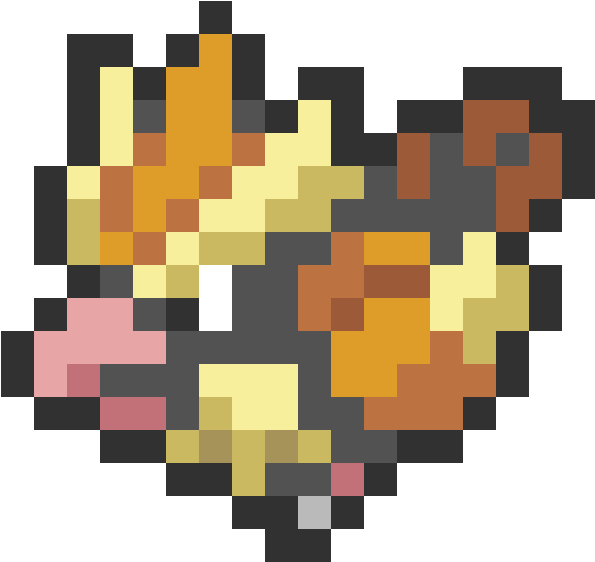
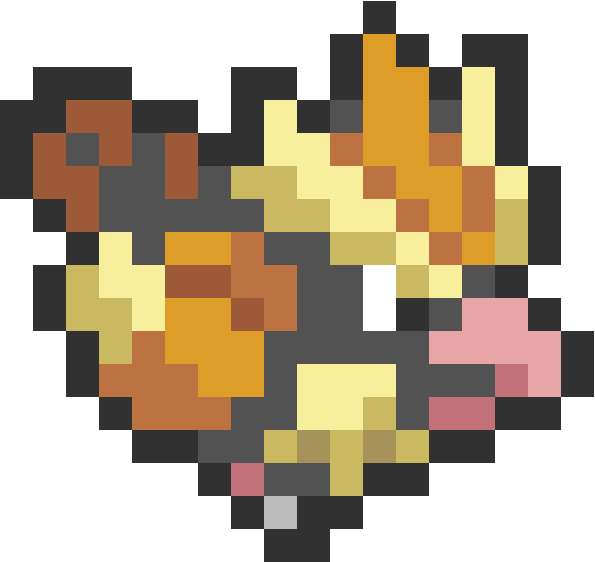
Ho implementato una funzione compute_angle che permette di calcolare l'angolo di rotazione dei pidgey, note le componenti cartesiane della velocità

diff --git a/chess_source/boids.hpp b/chess_source/boids.hpp
@@ -2,11 +2,11 @@
 #define BOIDS_HPP
 
 #include <SFML/Graphics.hpp>
+#include <cmath>
 #include <cstdlib>
 #include <iostream>
 #include <random>
 #include <vector>
-#include <cmath>
 
 namespace bd {
 class boid : public sf::Drawable, public sf::Transformable {
@@ -15,6 +15,7 @@ class boid : public sf::Drawable, public sf::Transformable {
   sf::Vector2f velocity;  // speed
   sf::Texture birdTexture;
   sf::Sprite birdSprite;  // graphic representation of bird
+  float angle_;
 
  public:
   // boid constructor
@@ -22,16 +23,32 @@ class boid : public sf::Drawable, public sf::Transformable {
     birdTexture.loadFromFile("pidgey.png");
     birdSprite.setTexture(birdTexture);
     birdSprite.setPosition(position);
-    birdSprite.setScale(0.05f, 0.05f);
+    compute_angle(angle_);
+    birdSprite.setRotation(angle_);
   }
 
-  virtual void draw(sf::RenderTarget& target, sf::RenderStates states) const override {
+  void compute_angle(float& angle) {
+    if (velocity.x > 0) {
+      birdSprite.setScale(0.03f, 0.03f);
+      angle = -12.5f + (180 / (static_cast<float>(M_PI))) *
+                           atanf(velocity.y / velocity.x);
+    } else if (velocity.x < 0) {
+      birdSprite.setScale(-0.03f, 0.03f);
+      angle = 12.5f + (180 / (static_cast<float>(M_PI))) *
+                          atanf(velocity.y / velocity.x);
+    } else if (velocity.x == 0 && velocity.y > 0) {
+      angle += 90.f;
+    } else if (velocity.x == 0 && velocity.y < 0) {
+      angle += -90.f;
+    }
+  }
+
+  virtual void draw(sf::RenderTarget& target,
+                    sf::RenderStates states) const override {
     target.draw(birdSprite, states);  // draws birds on window
   }
 
-  void move() { 
-    birdSprite.move(velocity);     
-    }
+  void move() { birdSprite.move(velocity); }
 };
 
 sf::Vector2f GenerateRdmSpeed(float vmax) {

diff --git a/chess_source/main.cpp b/chess_source/main.cpp
@@ -22,7 +22,7 @@ int main() {
   std::vector<bd::boid> flock;
     flock.reserve(n);
 
-  const float maxSpeed = 0.1f;
+  const float maxSpeed = 0.05f;
   std::random_device rd; //creates engine
   std::default_random_engine eng {rd()}; //gives different seed each time
   std::uniform_real_distribution<float> x_distribution(0.0f, 750.0f);  // choose the distribution for x
